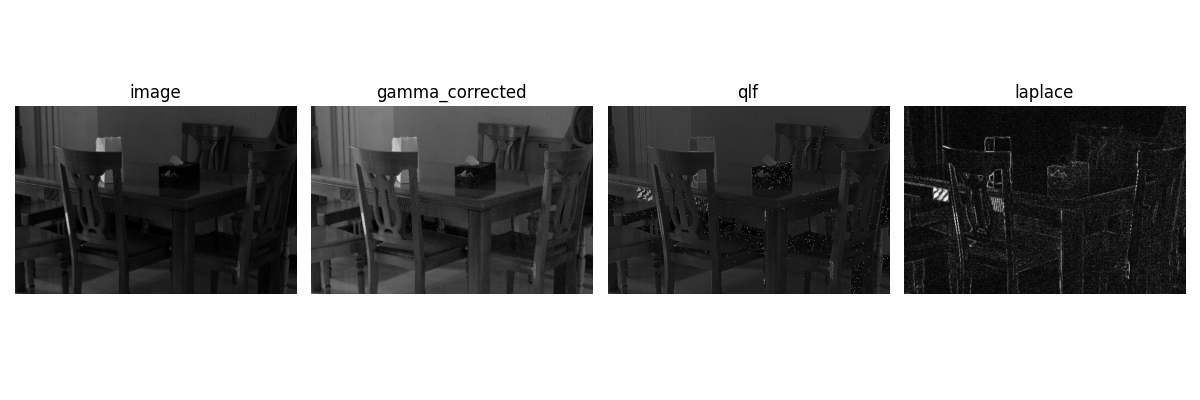
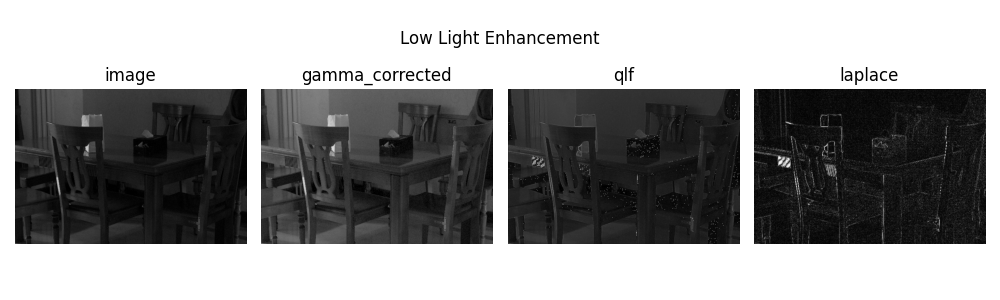
saved result images

diff --git a/main.py b/main.py
@@ -4,6 +4,7 @@ from pathlib import Path
 
 from imageprocessing.filters import QuarterLaplacian
 from imageprocessing.experiments import QuantitativeAnalysis, LowLightEnhancement
+from imageprocessing.utilities import save_filter_results
 
 ROOT_PATH = Path(__file__).parent
 img_path = ROOT_PATH / 'img'
@@ -20,8 +21,8 @@ laplace_cameraman_img = np.zeros_like(cameraman_img)
 cv.Laplacian(src=cameraman_img, ddepth=-1, dst=laplace_cameraman_img, ksize=3,
              borderType=cv.BORDER_REPLICATE)
 
-cv.imwrite(str(img_path / 'qlf_cameraman_img.png'), qlf_cameraman_img)
-cv.imwrite(str(img_path / 'laplace_cameraman_img.png'), laplace_cameraman_img)
+save_filter_results(base_img=cameraman_img, qlf_img=qlf_cameraman_img, laplace_img=laplace_cameraman_img,
+                    result_path=img_path / 'qlf_vs_std_laplace.png')
 
 # Quantitative analysis by comparing PSNR, SSIM, EPI metrics between QLF and baseline Laplacian filter
 cameraman_quant_experiment = QuantitativeAnalysis(base_img=cameraman_img, qlf_img=qlf_cameraman_img,

diff --git a/imageprocessing/utilities.py b/imageprocessing/utilities.py
@@ -1,0 +1,19 @@
+import numpy as np
+from matplotlib import pyplot as plt
+from pathlib import Path
+
+
+def save_filter_results(base_img: np.ndarray, qlf_img: np.ndarray, laplace_img: np.ndarray, result_path: Path) -> None:
+    imgs = [base_img, qlf_img, laplace_img]
+    titles = ['Orignal Image', 'QLF Filter', 'Laplace Filter']
+    fig = plt.figure(figsize=(10, 4))
+    gs = fig.add_gridspec(ncols=3, wspace=0)
+    axes = gs.subplots(sharex=True, sharey=True)
+
+    for i, (img, title) in enumerate(zip(imgs, titles)):
+        axes[i].set_title(title)
+        axes[i].imshow(img, cmap='gray')
+
+    fig.suptitle('Comparison of Quarter Laplacian and Laplacian Filter', y=0.98)
+    fig.tight_layout()
+    fig.savefig(result_path)

diff --git a/imageprocessing/experiments.py b/imageprocessing/experiments.py
@@ -139,11 +139,12 @@ class LowLightEnhancement(object):
 
     @staticmethod
     def save_experiment(results: dict, img_path: Path) -> None:
-        plt.figure(figsize=(12, 4))
+        plt.figure(figsize=(10, 3))
         for idx, title in enumerate(results.keys()):
             plt.subplot(1, 4, idx + 1)
             plt.imshow(results[title], cmap='gray')
             plt.title(title)
             plt.axis('off')
+        plt.suptitle('Low Light Enhancement', y=0.9)
         plt.tight_layout()
         plt.savefig(img_path)

diff --git a/README.md b/README.md
@@ -91,6 +91,11 @@ The QLF requires four directional responses (from four quarter windows $k_i , \f
 - Instead of convolving four separate kernels, the input image is rotated in 0°, 90°, 180°, and 270° increment.
 - Apply the fast $K_1$ response, then rotate each result back. This technique exploits the overlapping support so that 
 the same box filter computation can be reused after simple rotations.
+
+<img src="img/overlapped_region.png" width="200"><br/>
+Fig3: Overlapped support regions for different locations can be used to reduce the computation. e.g. the bottom-right
+region for the red dot is exactly the upper left region for the yellow dot.<br/><br/>
+
 - All four directional responses are stacked. For each pixel, the response with the smallest absolute value is selected 
 (mimicking the non–linear min–selection step in QLF).
 - The selected response is then either added to the image (diffusion) or used as the direct output, 
@@ -150,7 +155,11 @@ Higher EPI means the filtering preserved more of the original edges.
 test
 
 ## Results
-test
+<img src="img/qlf_vs_std_laplace.png" width="900"><br/>
+Fig4: Spectral analysis of discrete Laplacian operators<br/><br/>
+
+<img src="img/low_light_exp_result.png" width="900"><br/>
+Fig5: Spectral analysis of discrete Laplacian operators<br/><br/>
 
 ## How to Run
 ```
